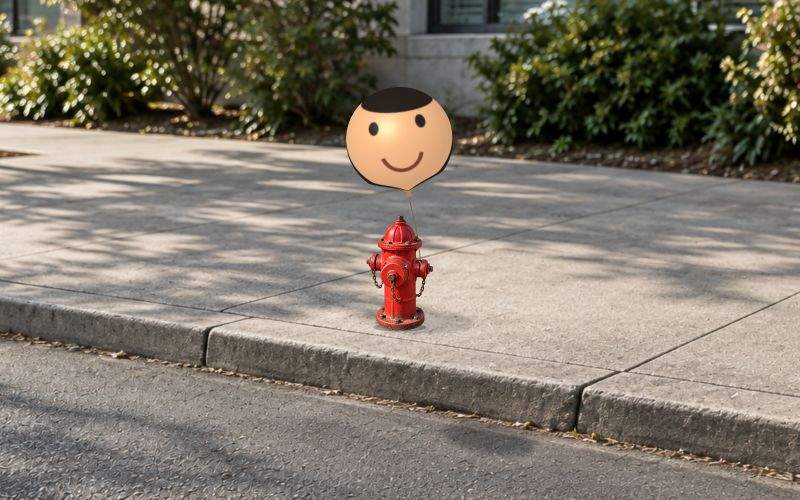
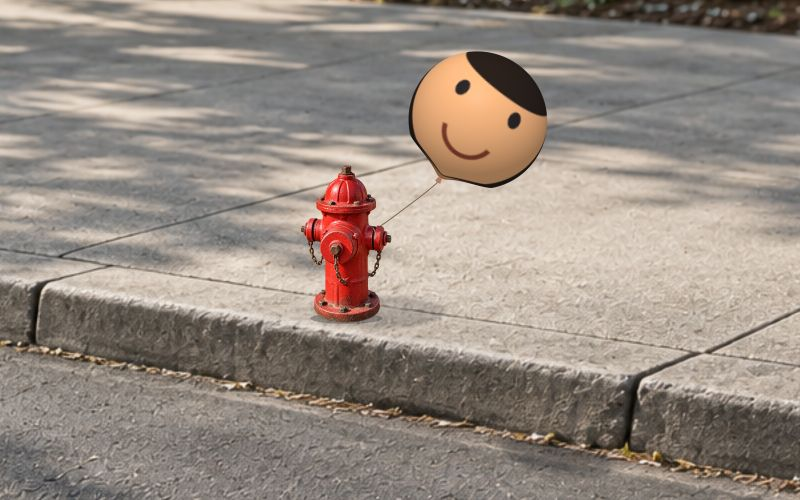
feat: 爆炸頭效果近景魚眼與風吹重置

diff --git a/effects/exploding-head/effect.js b/effects/exploding-head/effect.js
@@ -1,6 +1,6 @@
 import { MAX_SCALE, resetState, pump, advance, estimateHead, fractureBalloon, resetSwing, trackSwing, advanceSwing } from './physics.mjs';
 import { createStreetAssets,sceneLayout,createTether,advanceTether,scenePose,drawStreet,drawHydrant,drawTether } from './scene.mjs';
-import { placeShard,advanceGroundShard,shardPose,clipRoad,drawBalloonShadow,drawShardShadow } from './ground.mjs';
+import { placeShard,advanceGroundShard,advanceWindShard,shardPose,clipRoad,drawBalloonShadow,drawShardShadow } from './ground.mjs';
 import { createBalloon } from './balloon.mjs';
 
 const shell = Shell.init({ id: 'exploding-head' });
@@ -21,7 +21,8 @@ function surface() {
 const frame=surface(),headLayer=surface(),headMask=surface(),debris=surface();
 let headPixels;
 let state = resetState();
-let background = '#dcebe3', speed = 1, maxScale=MAX_SCALE;
+let background = '#dcebe3', speed = 1, maxScale=MAX_SCALE, fisheye=.25;
+let resetElapsed=null;
 let swing=resetSwing();
 let stream, segmenter, detector, audio;
 let stopped = false, ready = false, tracked = false, head = null;
@@ -55,12 +56,13 @@ controls.append(status, meter, button);
 shell.container.append(controls);
 
 function updateUI() {
-  button.textContent=t(state.exploded?'重置':'打氣');
-  button.disabled = stopped || document.hidden || (!state.exploded && (!ready || !tracked || state.pressure >= 1));
+  button.textContent=t(resetElapsed!==null?'吹走碎片中…':state.exploded?'重置':'打氣');
+  button.disabled = stopped || resetElapsed!==null || document.hidden || (!state.exploded && (!ready || !tracked || state.pressure >= 1));
   progress.value = state.pressure;
   percent.textContent = `${Math.round(state.pressure * 100)}%`;
   const key = stopped ? '效果已停止，請重新整理。' : !ready ? '正在準備攝影機與本地模型…'
     : document.hidden ? '分頁暫停中'
+    : resetElapsed!==null ? '一陣風吹走碎片，準備下一顆氣球…'
     : !tracked ? (state.exploded ? '追蹤遺失，氣球已爆炸；按重置再玩一次。' : '請一個人正對鏡頭，讓五官完整入鏡。')
     : state.exploded ? '砰！碎片飄落，繩子垂下；按重置再玩一次。'
     : state.pressure >= 1 ? '快爆炸了…'
@@ -72,6 +74,8 @@ shell.addParam({ type: 'color', key: 'background', label: '背景顏色', value:
   onChange: value => { background = value; draw(performance.now()); } });
 shell.addParam({ type: 'range', key: 'speed', label: '充氣速度', min: 0.5, max: 2, step: 0.25, value: speed,
   onChange: value => { speed = value; } });
+shell.addParam({type:'range',key:'fisheye',label:'魚眼程度',min:0,max:1,step:.05,value:fisheye,
+  onChange:value=>{fisheye=Number(value);draw(performance.now());}});
 shell.addParam({ type:'range',key:'maxScale',label:'氣球最大尺寸（倍）',min:1.5,max:4,step:.05,value:maxScale,
   onChange:value=>{
     maxScale=Number(value);
@@ -81,11 +85,26 @@ shell.addParam({ type:'range',key:'maxScale',label:'氣球最大尺寸（倍）'
 
 function resetEffect() {
   if (stopped) return;
+  if(resetElapsed!==null) return;
+  if(state.exploded && particles.length) {resetElapsed=0;updateUI();return;}
+  finishReset();
+}
+
+function finishReset() {
+  resetElapsed=null;
   state = resetState(); particles = []; lastPose = null;
   if(scene) tether=createTether(scene);
   swing=resetSwing();
   debris.canvas.width = debris.canvas.height = 1;
   updateUI();
+}
+
+function advanceReset(dt) {
+  if(resetElapsed===null) return;
+  const elapsed=Math.min(dt,2-resetElapsed);
+  resetElapsed+=elapsed;
+  for(const piece of particles) advanceWindShard(piece,elapsed,scene,resetElapsed);
+  if(resetElapsed>=2) finishReset();
 }
 
 function sound(explosion = false) {
@@ -156,7 +175,9 @@ function infer(now) {
     const data = mask.getAsFloat32Array();
     head = detections.length === 1 ? estimateHead(detections[0].boundingBox, data, mask.width, mask.height, w, h) : null;
     tracked = Boolean(head);
-    if(head) trackSwing(swing,head.cx,now,w); else swing=resetSwing();
+    // 臉框中心不受髮型、前景遮罩寬度影響，左右移頭能直接帶動繩端。
+    if(head) { const box=detections[0].boundingBox;trackSwing(swing,box.originX+box.width/2,now,w); }
+    else swing=resetSwing();
     if (!headPixels || headPixels.width !== mask.width || headPixels.height !== mask.height) {
       headMask.canvas.width=mask.width; headMask.canvas.height=mask.height;
       headPixels=headMask.ctx.createImageData(mask.width,mask.height);
@@ -216,7 +237,7 @@ function draw(now) {
   drawHydrant(ctx,scene,streetAssets);
   if(lastPose) {
     ctx.save();ctx.translate(lastPose.x,lastPose.y);ctx.rotate(lastPose.angle);
-    ctx.drawImage(balloon.render(state.pressure),-lastPose.width/2,-lastPose.height,lastPose.width,lastPose.height);
+    ctx.drawImage(balloon.render(state.pressure,fisheye),-lastPose.width/2,-lastPose.height,lastPose.width,lastPose.height);
     ctx.restore();
   }
   for(const piece of ordered) if(piece.gz<0) drawPiece(piece);
@@ -248,7 +269,8 @@ function explode() {
 
 function tick(now) {
   if (stopped || document.hidden) return;
-  const dt = Math.min((now - (lastTime || now)) / 1000, 0.05);
+  const elapsed = (now - (lastTime || now)) / 1000;
+  const dt = Math.min(elapsed, 0.05);
   lastTime = now;
   try {
     if (segmenter && detector && video.readyState >= 2 && video.currentTime !== lastVideoTime) {
@@ -258,7 +280,8 @@ function tick(now) {
     if (ready && now - lastFrameAt > 750) { tracked = false; swing=resetSwing(); updateUI(); }
     if(tracked) advanceSwing(swing,dt);
     if(scene && tether) advanceTether(tether,scene,dt,now,swing,state.exploded);
-    for (const piece of particles) advanceGroundShard(piece,dt,scene);
+    if(resetElapsed!==null) advanceReset(elapsed);
+    else for (const piece of particles) advanceGroundShard(piece,dt,scene);
     // 先計算上限附近的繪圖姿態，再用同一姿態切成碎片。
     const burst = advance(state, dt, tracked,maxScale);
     if (burst) {
@@ -281,7 +304,7 @@ function release() {
   }
   segmenter = detector = null;
   if (audio) { try { void audio.close().catch(() => {}); } catch {} audio = null; }
-  particles = []; headPixels = null; hasTexture=false;
+  particles = []; resetElapsed=null; headPixels = null; hasTexture=false;
   balloon?.release(); balloon = null;
   streetAssets?.release();streetAssets=null;
   for (const layer of [frame, headLayer, headMask, debris]) layer.canvas.width = layer.canvas.height = 1;

diff --git a/effects/effects.js b/effects/effects.js
@@ -43,12 +43,12 @@ window.EFFECTS = [
     title: "爆炸頭",
     category: "身體動作",
     description: "把你的臉變成綁在路邊消防栓的立體氣球，打氣直到爆炸",
-    instructions: "一個人正對鏡頭，左右移頭帶動氣球甩動；連點下方打氣，爆炸後同一按鈕可重置。資訊面板可調背景、充氣速度與最大尺寸。",
+    instructions: "一個人正對鏡頭，左右移頭帶動氣球甩動；連點打氣，爆炸後按重置，風吹走碎片才生成新球。資訊面板可調背景、充氣速度、最大尺寸與魚眼程度。",
     tech: ["MediaPipe Image Segmenter", "MediaPipe Face Detector", "WebGL", "Canvas 2D", "Web Audio API", "getUserMedia"],
     principle: [
       "本地模型擷取即時五官，貼滿有曲面光影的不透明氣球；畫面只呈現路面、消防栓與氣球。",
       "浮力、風力與移頭慣性牽動多段繩索；固定綁點與繩長約束讓氣球自然甩動，打氣時彈性膨脹。",
-      "寫實街景共用地面透視：氣球有隨動投影，爆炸薄片飄落路面並停留；重置重新綁好，消防栓比例不變。"
+      "近景街道共用地面透視，魚眼五官包覆立體球面並投影路面；碎片落地保留，重置時先由陣風吹走再生成新球。"
     ],
     requirements: ["攝影機", "建議 Chrome / Edge", "瀏覽器需支援 WebGL 與硬體加速", "需經 start.bat 或 HTTPS 開啟", "單人正面；頭部輪廓為估算，長髮、側臉與遮擋可能殘邊", "本地雙模型推論，手機或較舊裝置可能較慢；音效不需麥克風"],
     offline: true,

diff --git a/assets/i18n.js b/assets/i18n.js
@@ -109,6 +109,11 @@
     "充氣進度": "Inflation progress",
     "打氣": "Pump",
     "充氣速度": "Inflation speed",
+    "魚眼程度": "Fisheye strength",
+    "一個人正對鏡頭，左右移頭帶動氣球甩動；連點打氣，爆炸後按重置，風吹走碎片才生成新球。資訊面板可調背景、充氣速度、最大尺寸與魚眼程度。": "Face the camera alone and move your head sideways to swing the balloon. Tap Pump, then Reset after the pop: a gust clears the pieces before a new balloon appears. Adjust background, inflation speed, maximum size and fisheye strength in the info panel.",
+    "近景街道共用地面透視，魚眼五官包覆立體球面並投影路面；碎片落地保留，重置時先由陣風吹走再生成新球。": "A close street view shares one ground perspective. Fisheye facial features wrap the shaded balloon, which casts a road shadow. Fallen flakes remain until Reset blows them away before creating the next balloon.",
+    "吹走碎片中…": "Blowing pieces away…",
+    "一陣風吹走碎片，準備下一顆氣球…": "A gust is clearing the pieces for the next balloon…",
     "背景顏色": "Background color",
     "效果已停止，請重新整理。": "The effect has stopped. Please reload.",
     "正在準備攝影機與本地模型…": "Preparing the camera and local models…",

diff --git a/effects/exploding-head/README.md b/effects/exploding-head/README.md
@@ -1,12 +1,13 @@
 # 爆炸頭
 
-你的五官貼滿有曲面光影的立體氣球，綁在路邊紅色消防栓上。氣球受浮力、柔和風力與移頭慣性擺動；打氣會彈性膨脹，到達上限後碎成不規則薄片飄落，失去浮力的繩子垂下。主畫面不顯示真人肩頸或身體。
+你的五官貼滿有曲面光影的立體氣球，以近景呈現路邊紅色消防栓與右上方氣球。氣球受浮力、側風與移頭慣性擺動；打氣會彈性膨脹，到達上限後碎成不規則薄片飄落，失去浮力的繩子垂下。主畫面不顯示真人肩頸或身體。
 
 ## 操作與限制
 
 - 一個人正對鏡頭，讓五官完整入鏡。左右移頭可帶動氣球甩動；鏡頭距離不影響場景比例。
-- 點擊下方「打氣」，預設 12 下到頂；等待視覺膨脹接近上限才爆炸。同一按鈕變成「重置」，沒有偵測到臉也能重玩。
+- 點擊下方「打氣」，預設 12 下到頂；等待視覺膨脹接近上限才爆炸。同一按鈕變成「重置」；按下後約兩秒的陣風先捲起並吹走碎片，再生成新球。這段期間不能重複點擊或打氣，沒有偵測到臉也能完成清場。
 - 資訊面板可調背景顏色、充氣速度（0.5–2 倍，約 24–6 下）、氣球最大尺寸（場景基準球體的 1.5–4 倍，預設 2.35）。改上限保留當次氣量，僅改變球體膨脹與爆炸門檻，絕不縮小或移動消防栓來容納氣球。極大氣球可超出畫面。
+- 魚眼程度為 0–1，預設 0.25；增加時五官中央放大、邊緣壓縮，調整不重置氣量或追蹤。
 - 初次尚未偵測到臉時先顯示路面與消防栓。無臉、多臉或相機停幀時暫停打氣，已有的臉部貼圖保留在飄動氣球上；重新辨識後恢復即時五官。爆炸後不會因找回臉而自行復原。
 - 載入、錯誤、背景分頁及充滿等待爆炸時禁用打氣；切到背景暫停動畫與推論。音效由 Web Audio 合成，不需要麥克風。
 - 以單人正面為基準。側臉、遮擋、極暗光線或背景分割錯誤可能造成貼圖失真；不是完整 3D 臉部重建。
@@ -17,11 +18,19 @@
 
 臉部框略留額頭與下巴，裁成固定 256×256，僅在貼圖時水平鏡像一次；五官放大包覆整顆球。遮罩空隙只由有效前景 RGB 補滿，球內 alpha 不透明。固定 512×512 離屏 WebGL 以球面法線、曲面 UV、方向光與高光呈現立體感；底端收成短氣嘴，接上小結與繩索，沒有頸部接片。
 
+魚眼參數以 GPU uniform 調整球面取樣，0 保留基礎包覆、1 有最強中心放大。舊版方向明暗幅度小且白光加法偏多，容易顯平與褪色；新版保留底色、略增色彩濃度、加深朝光相反側並縮小高光範圍。效果仍會反映原始相機曝光與白平衡。
+
 `scene.mjs` 依視窗尺寸安排場景基準大小、消防栓、綁點與繩長，與臉框、氣量、最大尺寸完全分離。街景與透明消防栓素材依路面校準合成，背景顏色參數用於柔和環境色調。`ground.mjs` 共用路面座標及透視投影：遠處物體變小，氣球陰影跟隨旋轉後的球心、尺寸及離地高度，離地越高越淡且柔和。陰影只畫在道路區域，爆炸後移除球影。
+
+近景將背景等比放大 1.6 倍，消防栓較 v7 放大約 57%、氣球基準放大 50%。栓腳在原圖 y552 的人行道頂面，地面基準在 y650 的柏油；栓略偏左、球受側風斜向右上，讓繩子露出側管外。維持原本同源路緣斜率，縮放不隨使用者最大尺寸改變。
 
 繩子由 13 個 Verlet 節點組成，固定底端並反覆約束每段長度。末端浮力與柔和風力牽引球體，臉部左右位移驅動阻尼角彈簧，將慣性傳入繩索；球體方向跟隨末段繩子的張力並延遲回穩。爆炸移除浮力，繩索受重力回落，路面限制其下落。重置重新綁好；失追、重獲、相機尺寸改變與切分頁會清除追蹤輸入，避免座標跳躍造成暴衝。這是輕量的繩索動力學近似，沒有消防栓碰撞、空氣流體或完整剛體模擬。
 
+移頭輸入取原始偵測臉框中心，避免頭髮或前景範圍抵消左右位移；支援低於 750ms 的推論間隔，包含較慢的 250–400ms 模型。鏡像方向一致，停止後阻尼回彈；重新取得追蹤的第一個樣本不施加舊位移。
+
 爆炸時凍結已著色球面，32 個隨機 Voronoi 區域形成大小不一的薄片，直接沿用球體的畫面位置與角度，並帶入繩端速度。粒子使用路面位置、深度與獨立離地高度，受重力、朝向與面積／質量相關阻力、側向飄擺及角速度阻尼影響。薄片翻面飄落，在道路上小幅彈落、滑動後受摩擦停止並平貼地面；近地有接觸影，前後片與消防栓依深度遮擋。所有落片保留直到重置，不再按固定秒數消失。這是 2.5D 地面碰撞近似，沒有薄片彼此碰撞或任意建物碰撞。
+
+重置使用單一兩秒風階段：保留爆炸狀態與凍結貼圖，喚醒落地碎片、解除畫面邊界反彈，往右上翻飛離場後才清空並綁回新球。尚未落地也能重置；失追與 resize 不提前生球。時間按真正前景經過秒數計算，內部風力細分步長；切背景暫停，不會因一般物理的 50ms 上限而讓低 FPS 清場拖成數十秒。
 
 每次推論即釋放 mask 結果，離頁關閉模型、相機、音訊、RAF、場景圖片與 GPU 貼圖／shader／buffer，包含初始化途中離頁。街景素材遺失或載入逾時會顯示錯誤。
 
@@ -44,13 +53,13 @@ node --test effects/exploding-head/effect.test.mjs
 node assets/i18n.test.js
 ```
 
-35 項效果測試涵蓋充氣門檻、追蹤暫停、相機權限與資源釋放、GPU 失敗清理、臉框與實心貼圖、薄片物理、同按鈕重置、移頭甩動，以及繩長／端點／有限值、爆後落繩、球結銜接及桌面與手機初始可見性。新增投影初態連續、球影隨動、32 片在 30／60／120 fps 落地結果接近、長時間保留／重置、素材失敗與釋放回歸。互動回歸確認 1.5→4→1.5 只改球體尺寸；失追、重置與相機尺寸改變均不調整消防栓構圖。主畫布沒有身體或原始 video。
+41 項效果測試涵蓋既有充氣、落片、陰影、素材、相機／模型／GPU 失敗與清理回歸。新增近景旋轉球面邊界與人行道栓腳、真臉框輸入經推論至繩索的左右位移／回彈、250–400ms 慢模型、魚眼參數傳遞、兩秒風階段與低 FPS 時序、空中／落地清場、失追、resize、切分頁與離頁。互動回歸確認 1.5→4→1.5 只改球體尺寸，主畫布沒有身體或原始 video。Node 的相機與 GPU 為替身，不能代替瀏覽器視覺驗證。
 
-本次 Chrome 使用合成人臉與模型替身，實際執行產品的本地圖片載入、WebGL 球面、Canvas 場景與物理程式。模擬推進 25 秒後，32 片全部落在可見柏油路面並停留，截圖可見落片；球影有／無的像素對照確認 4,315 個像素變暗，平均差約 23.4／255。新版 `thumb.png` 為 800×500，使用此合成測試臉，並非真人攝影機截圖。
+v8 在 Chrome 以真人相機確認魚眼 1 的五官變形、實心不露背景與較清楚的球面膚色對比；以合成人臉實跑 WebGL 確認 0／0.25／1 魚眼差異，以及近景栓腳、露出的斜繩與球栓分離。390×580 在 92% 氣量時球栓完整，844×390 操作完整；32 片落地後按重置，0 秒保留全部碎片且沒有新球，約 0.66 秒碎片揚起、9 片已出畫，2.25 秒截圖確認 0 片與新球 0%。新版 `thumb.png` 為 800×500 合成人臉近景。
 
-另以只允許本機資源的 CSP 啟動相同合成測試，街景、消防栓、球面及充氣均正常，無瀏覽器錯誤；此項不涵蓋真人相機與模型推論。素材儲存位置與內建 image_gen 生成提示詞見 [ASSETS.md](./ASSETS.md)。
+單頁合成測試將原始臉框向右移 80px，球心由 x724.1 向鏡像左側擺至 x671.3，再回彈至 x722.3；記錄期間使用產品的追蹤、繩索與渲染程式。v8 也通過只允許本機資源的 CSP 合成測試，街景、消防栓、球面及充氣正常；此項不涵蓋真人相機與模型推論。以 Permissions Policy 封鎖產品頁相機時，顯示繁中錯誤與重新整理按鈕，無白屏。素材儲存位置與生成提示詞見 [ASSETS.md](./ASSETS.md)。
 
-本次真人攝影機兩次開啟均回報 `NotReadableError: Device in use`，因此未完成新版真人相機驗證。前版曾以真人相機確認臉球、12 下爆炸及固定構圖，也曾確認相機 Permissions Policy 錯誤提示與只允許本機資源的 CSP 載入；這些前版結果不代表本次真人相機已通過。
+v7 的真人相機曾被其他程式占用；v8 已重新開啟驗證，不沿用當時的失敗結果。
 
 ## 線上體驗
 
